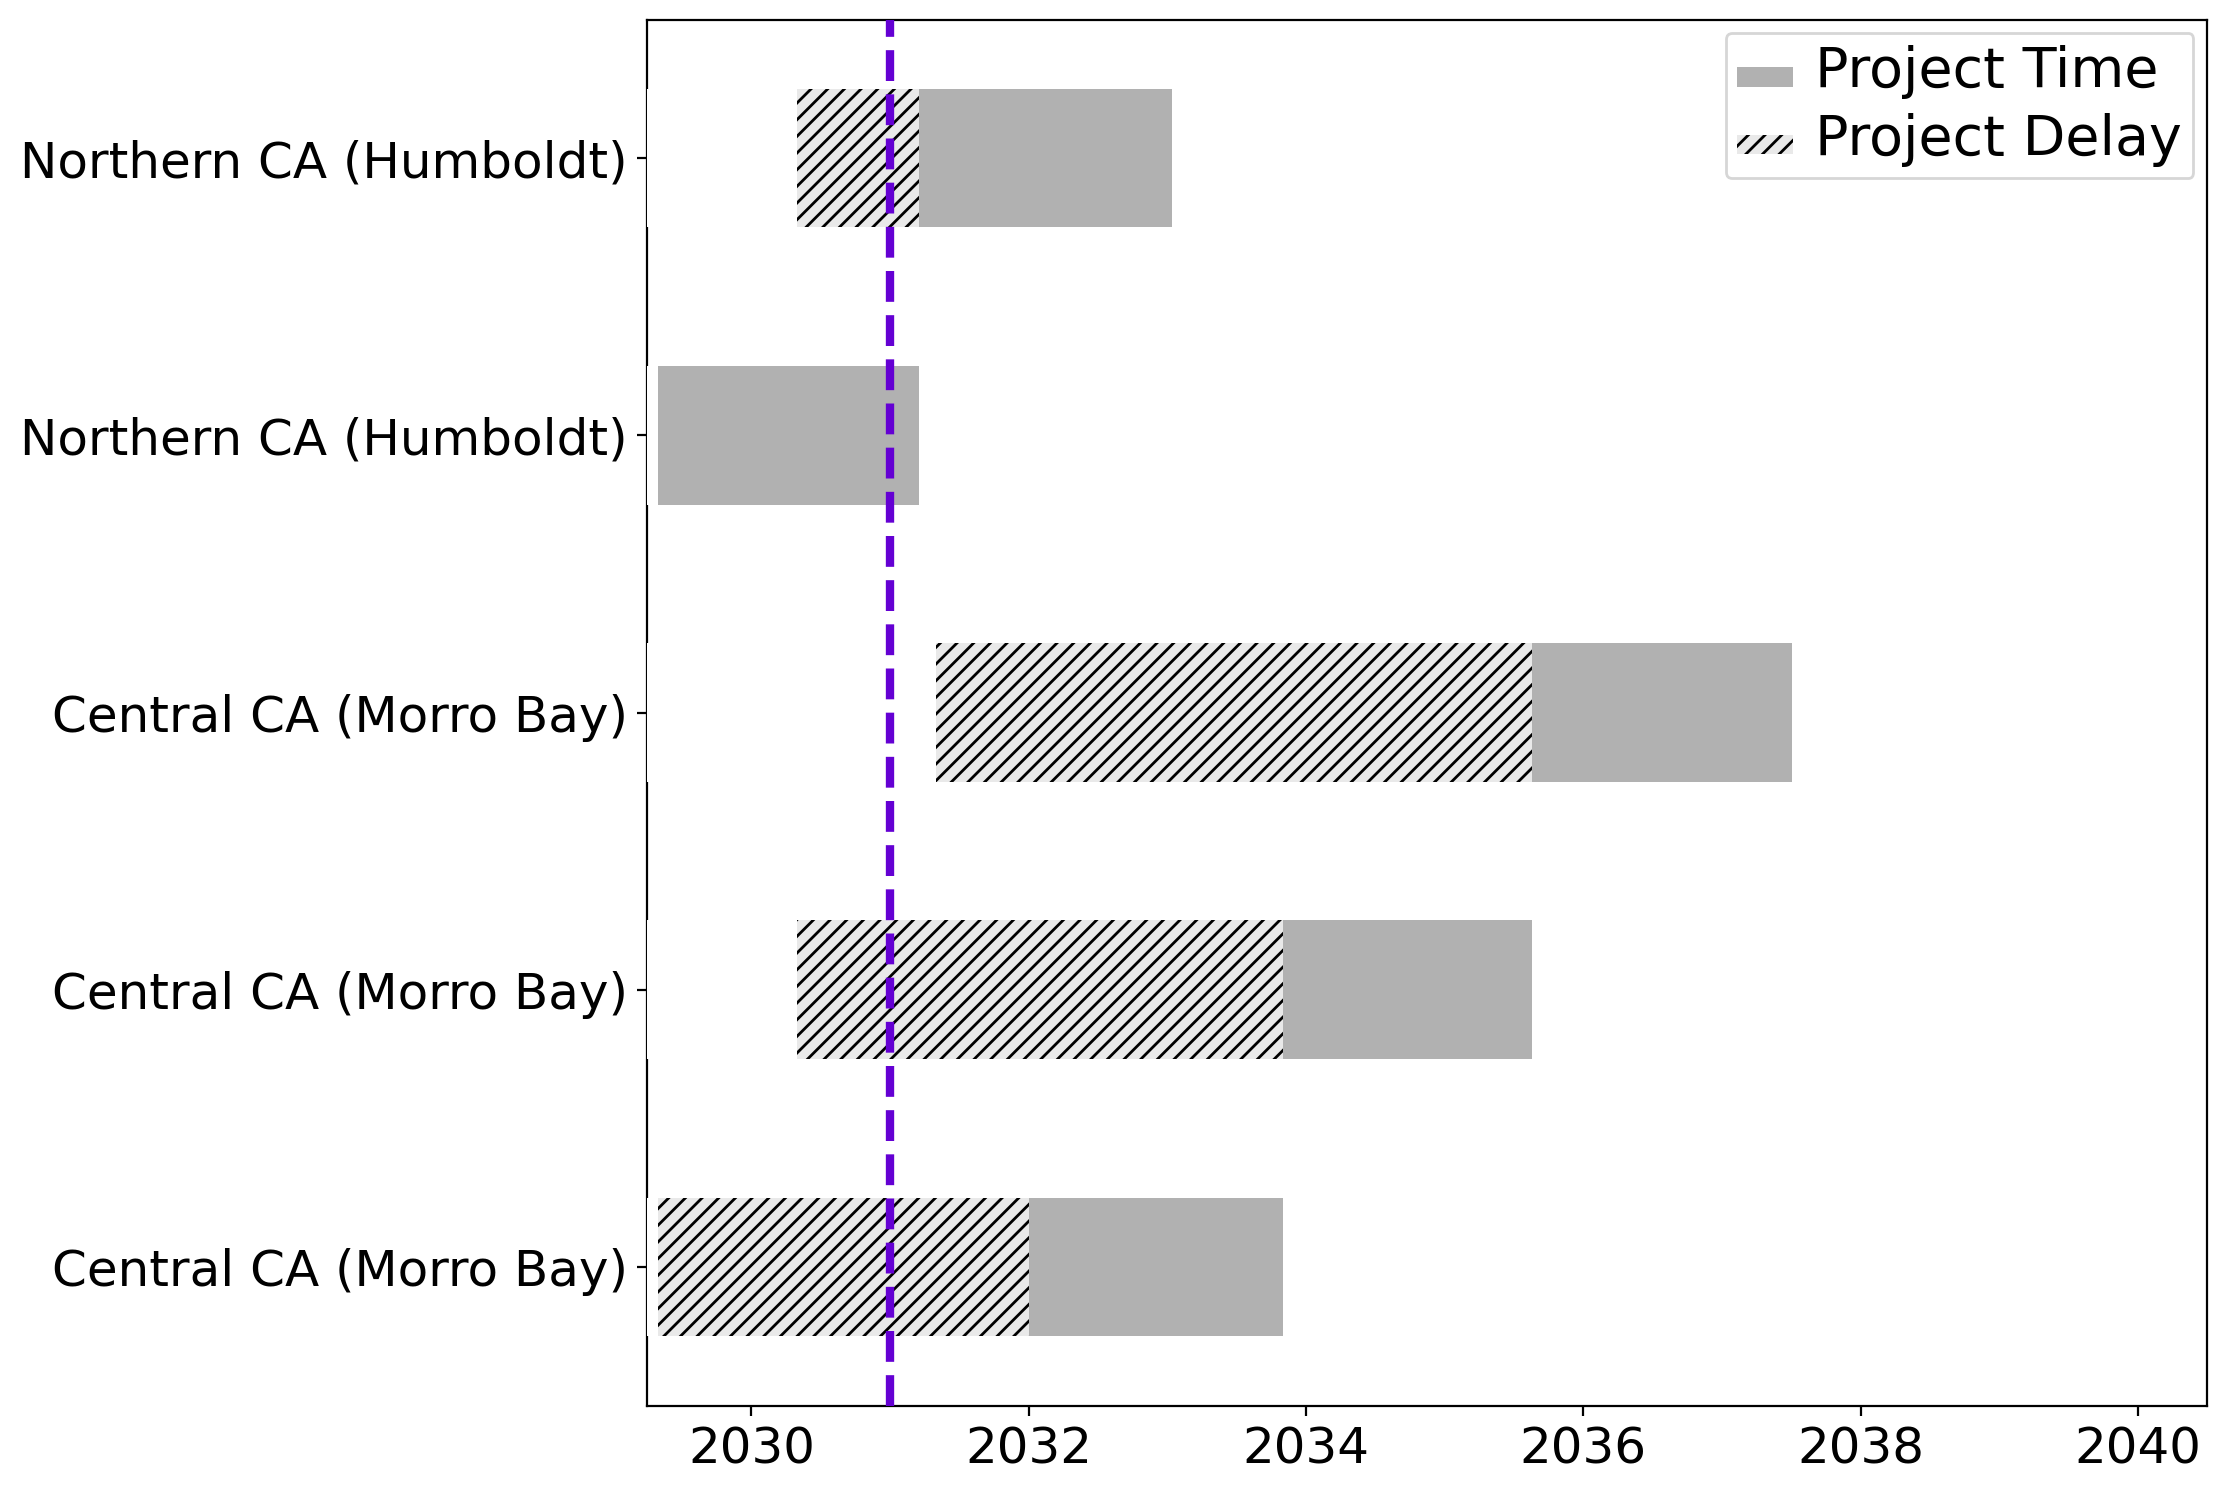
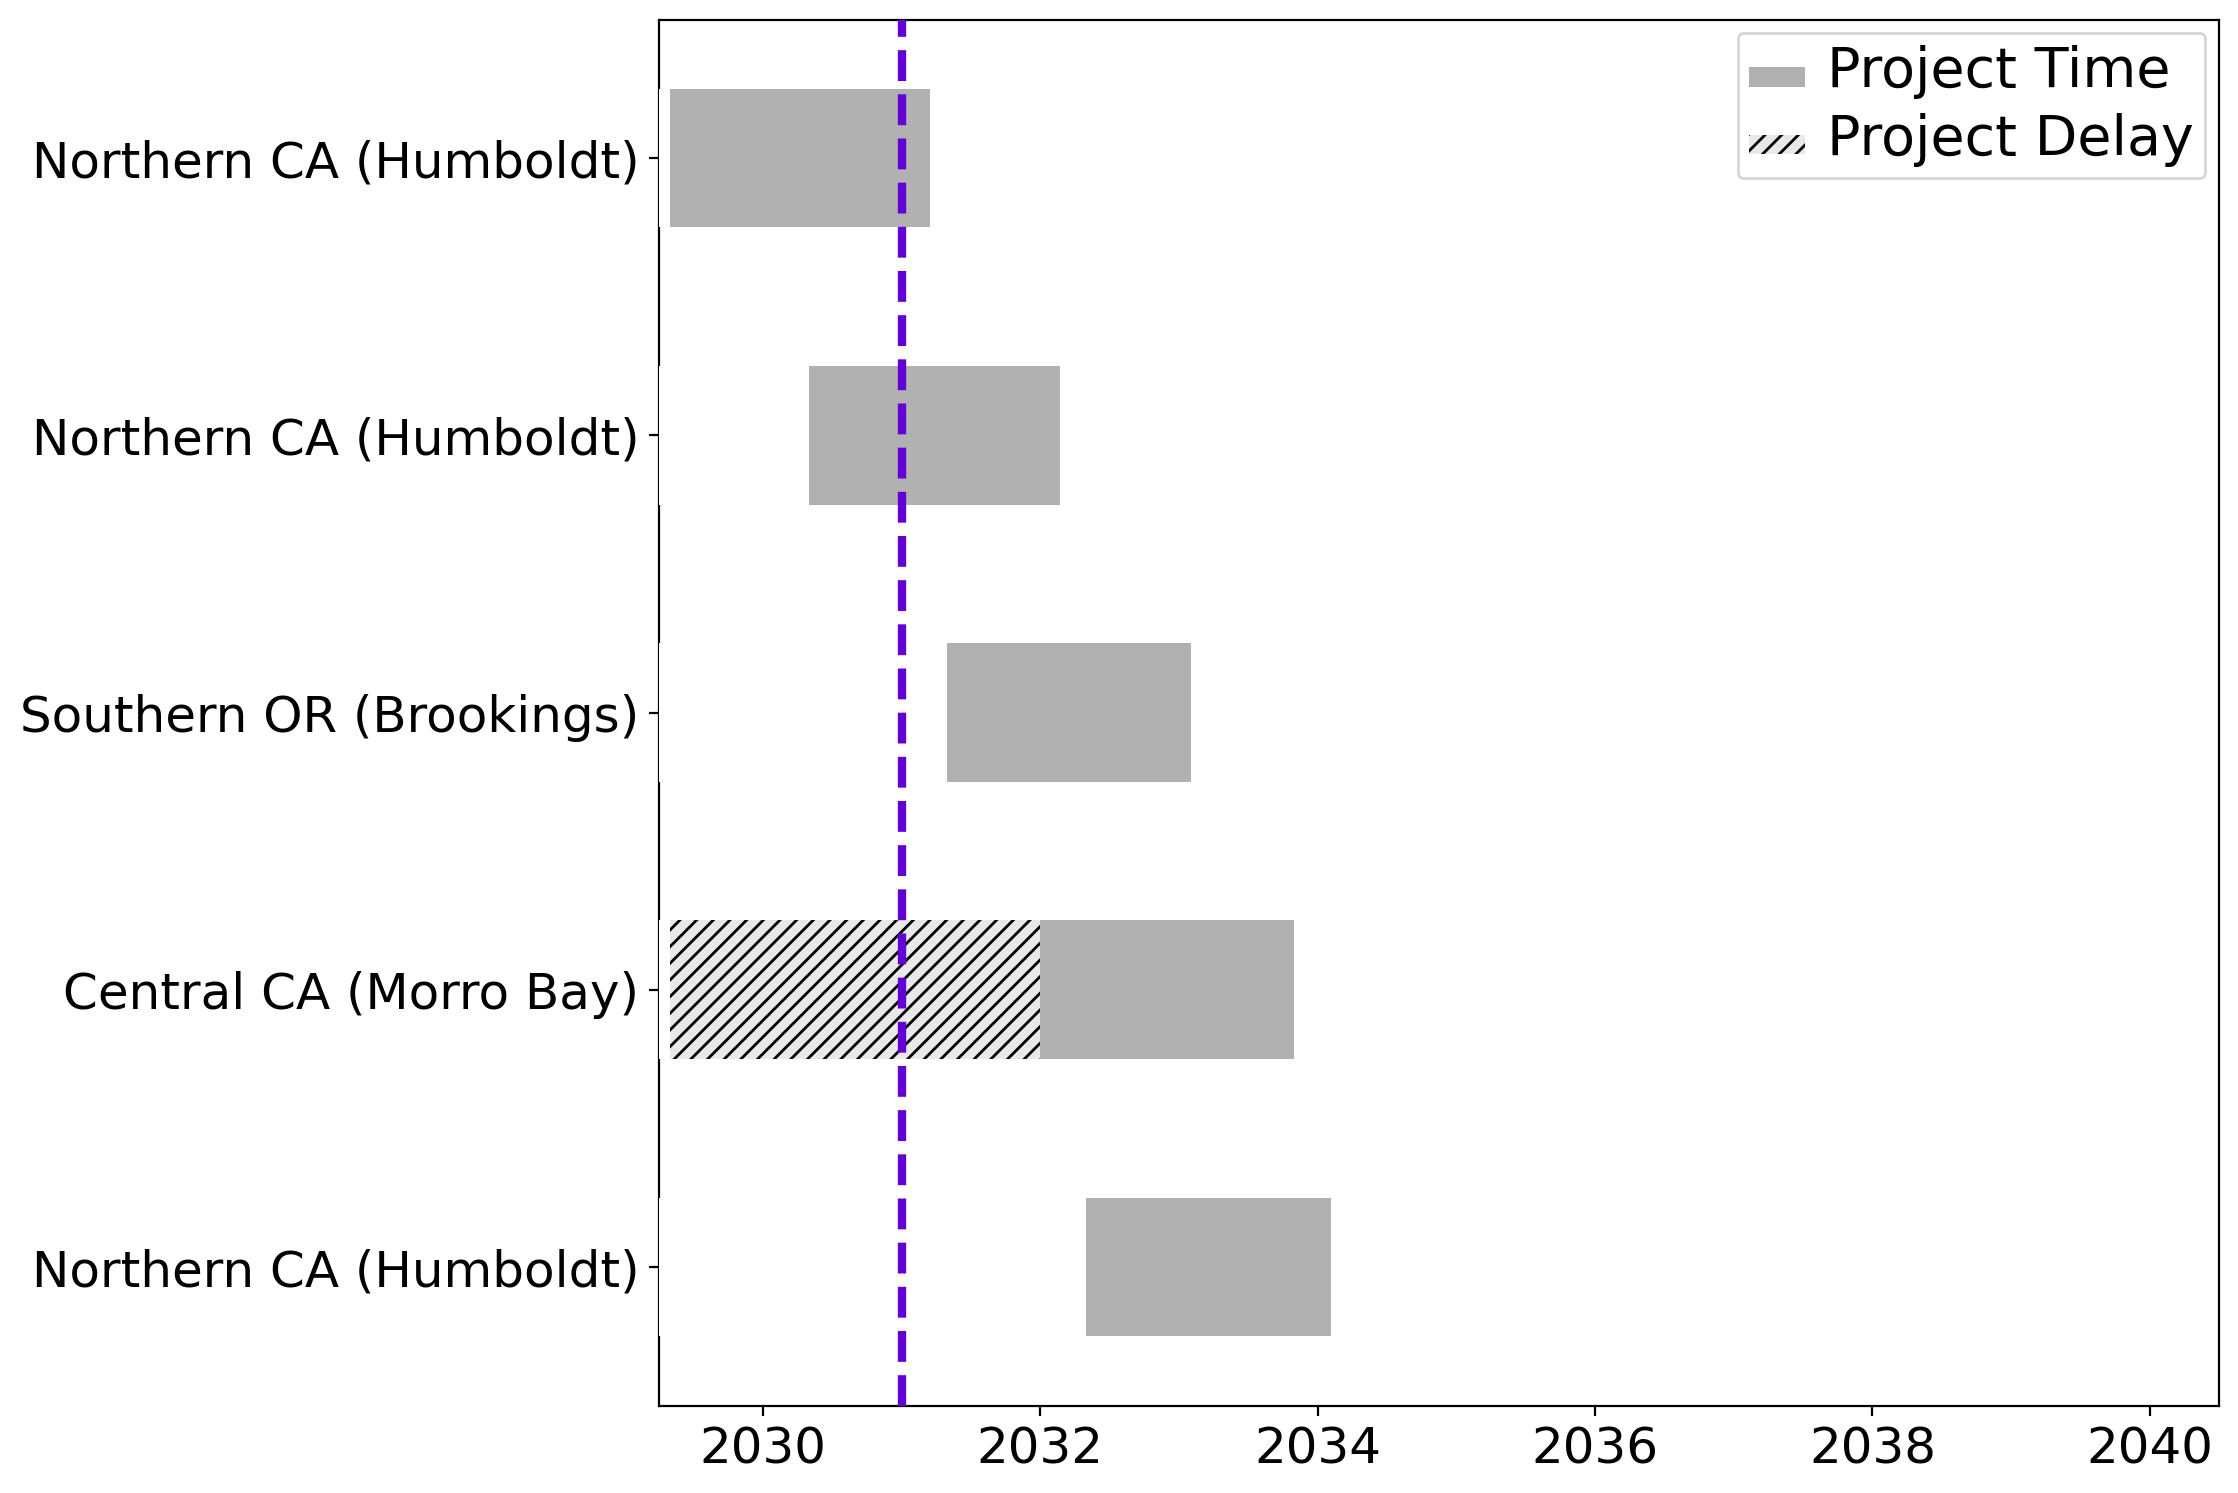
plot for first n projects

diff --git a/analysis/main.py b/analysis/main.py
@@ -14,12 +14,8 @@ from plot_routines import plot_gantt, plot_throughput, plot_gantt_nt
 
 # Configure scenarios and keep_inputs
 projects = "library/pipeline/wc-pipeline.xlsx"
-scenarios = ['Baseline-limited-ports', 'Baseline-South-CA', 'Baseline-Central-CA', 'Expanded-all-ports']
-<<<<<<< HEAD
-# scenarios = ['Baseline-limited-ports']
-=======
-#scenarios = ['Baseline-limited-ports']
->>>>>>> 6053630 (lease area plots)
+#scenarios = ['Baseline-limited-ports', 'Baseline-South-CA', 'Baseline-Central-CA', 'Expanded-all-ports']
+scenarios = ['Baseline-limited-ports']
 base = "base.yaml"
 library_path = "library"
 weather_path = "library/weather/humboldt_weather_2010_2018.csv"
@@ -56,6 +52,10 @@ if __name__ == '__main__':
 
         capacity_map = pipeline.projects[["name", "capacity"]].set_index("name").to_dict()['capacity']
         df['capacity'] = [capacity_map[name] for name in df['name']]
+
+        # Save csv
+        csv_name = 'results/' + s + '_data.csv'
+        df.to_csv(csv_name)
 
         # savefig = savedir + '/s' + '_gantt'
         filename = str(s) + '_gantt'

diff --git a/analysis/plot_routines.py b/analysis/plot_routines.py
@@ -183,10 +183,11 @@ def plot_throughput(throughput, fname=None):
 def plot_gantt_nt(df, manager, num_proj, fname=None):
     fig, ax = initFigAxis()
 
-    df_nt = pd.DataFrame()
-    for i in range(1, num_proj+1):
-        row = df.loc[df['name'] == 'Project ' + str(i)]
-        df_nt = pd.concat([df_nt, row])
+    df_nt = df.tail(num_proj)
+
+#    for i in range(1, num_proj+1):
+#        row = df.iloc[df['project_num'] == str(i)]
+#        df_nt = pd.concat([df_nt, row])
 
     df_nt["Date Finished"].plot(kind="barh", ax=ax, zorder=4, label="Project Time", color="#b1b1b1")
     df_nt["Date Started"].plot(kind="barh", color="#e9e9e9", ax=ax, zorder=4, label="Project Delay", hatch="////", linewidth=0.5)
